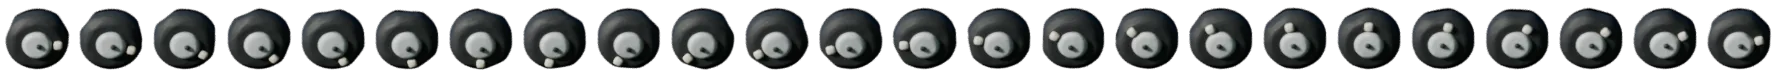
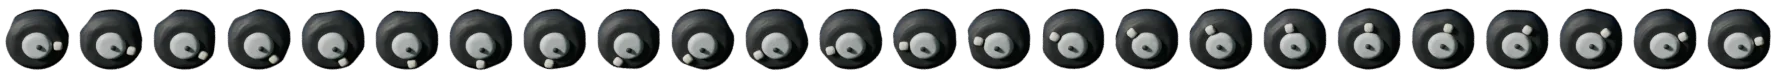
feat(science ch09): beats 0, 4 and 5 on the clay road; check that picture and labels agree
incar: the truck, the car and the friend are sprites the page moves over the road plate;
their screen speeds equal the live labels before and after the cut (make/check_ch09.py,
Chromium and Firefox). Lanes set apart so the car's roof clears the truck's wheels.

diff --git a/site/science/ch09/index.html b/site/science/ch09/index.html
@@ -22,7 +22,8 @@ const CHAPTER = { number: 9, label: 1, title: 'Motion', minutes: 18, language: '
 const V = 150;                                   // 30 mph on screen, in world px per second (same scale in every road beat)
 const MPH = v => Math.round(Math.abs(v) / V * 30);
 const speedStr = rel => { const n = MPH(rel); return n === 0 ? '0 mph' : rel > 0 ? `${n} mph →` : `← ${n} mph`; };
-const TRUCK_LAB = 358, CAR_LAB = CR.near + 96, HEAD = CR.side - 142;   // over the clay road: speed labels above the truck's roof and under the car; a pin's tip just over a person's head
+// Over the clay road: the truck's speed label above its roof, the car's on the asphalt ahead of it (from the car's x), a pin's tip just over a person's head.
+const TRUCK_LAB = 358, CAR_LAB = [290, CR.near + 6], CAR_ROOF = -89, HEAD = CR.side - 142;   // CAR_ROOF: the middle of the car's roof, from its anchor (a pin stands in it)
 const Q_CARD = { x: 96, y: 586, w: 1408, cls: 'band' };   // a band card under the scenes; it moves up by itself when taller
 const txt = (p, s, x, y, t0, { size = 32, fill = COL.chalk, anchor = 'middle', weight = 600 } = {}) => { const e = T(p, s, { x, y, size, fill, anchor, weight, o: 0 }); show(e, t0); return e; };
 // One line with coloured runs: [[text, colour?], …].
@@ -134,12 +135,12 @@ const BEATS = [
 ['intro', 'Motion', (m, D) => {
   const p = panel(0);
   const cam = camera(p, D, { x: 800, y: 285, z: .9 });
-  const road = phRoad(cam);
+  const road = clRoad(cam);
   const carX = t => -260 + 190 * t;
-  const car = phCar(road.vehicles, { y: ROAD.near });
+  const car = clCar(road.vehicles);
   cam.to({ x: t => carX(t) + 330 }, 2.4, 2);                 // lock on: from here the camera rides with the car
   clockRun(t => {
-    const x = carX(t); put(car, { x }); phRoll(car, x);
+    const x = carX(t); put(car, { x }); clRoll(car, x);
   }, D);
   const g = G(p, { o: 0, y: 24 });
   T(g, 'Unit 1 · Motion, Forces, and Work · Chapter 1', { x: 800, y: 130, size: 28, fill: COL.dim, anchor: 'middle' });
@@ -232,30 +233,30 @@ const BEATS = [
 ['incar', 'Riding beside the truck', (m, D) => {
   const p = panel(0);
   const cam = camera(p, D);
-  const road = phRoad(cam, { trees: [300, 800, 1900] });   // no tree behind the friend (1100) or the friend's label
+  const road = clRoad(cam);
   const FR = 1100, tc = m('car', .3), r0 = m('ride');
   const xw = t => -330 + V * Math.max(0, t - tc);            // world position of the truck and the car (side by side)
-  // Hard cut at "ride": the camera now rides in the car (locked on it, a little closer, with a light road shake).
+  // Hard cut at "ride": the camera now rides in the car (locked on it, a little closer).
   cam.cut({ x: t => xw(t) + 10, y: 600, z: 1.15 }, r0);
-  phPerson(road.side, { role: 'friend', x: FR, y: ROAD.side });
-  const truck = phTruck(road.vehicles, { y: ROAD.far });
-  const car = phCar(road.vehicles, { y: ROAD.near });
+  clImg(road.side, 'friend', { x: FR, y: CR.side });
+  const truck = clTruck(road.vehicles), car = clCar(road.vehicles);
+  const scrim = clScrim(p, 660, { o: 0 }); show(scrim, r0, 0);   // from the cut on, two labels stand on the near grass
   // Speed labels live in screen space and are kept inside the frame (cam.track); wrappers fade them in.
   const tag = (fill, t0) => { const g = G(p, { o: 0 }); show(g, t0); return phLabel(g, '', { fill }); };
   const fl = tag(PH.friend, .4), tl = tag(PH.truck, tc + 1.6), cl = tag(PH.car, tc + 1.6);
-  const sl = phLabel(p, 'road and trees: ← 30 mph', { x: 70, y: 862, size: 30, fill: COL.dim, anchor: 'start', o: 0 });
+  const sl = phLabel(p, 'road and trees: ← 30 mph', { x: 70, y: 862, size: 30, fill: COL.chalk, anchor: 'start', o: 0 });
   show(sl, m('back'));
-  const pinA = phPin(road.side, { x: FR, y: 304, o: 0 }), pinB = phPin(car, { x: 30, y: -112, s: 0, o: 0 });
+  const pinA = phPin(road.side, { x: FR, y: HEAD, o: 0 }), pinB = phPin(car, { x: -12, y: CAR_ROOF, s: 0, o: 0 });
   show(pinA, .3); hide(pinA, r0, 0); pop(pinB, r0 + .3);
   const tagA = fromTag(p, 'the roadside', .3);
   hide(tagA, r0, 0); fromTag(p, 'your car', r0, 0, 800);   // bottom: the friend slides through the top
   clockRun(t => {
     const x = xw(t), camV = t < r0 ? 0 : V, rel = t < tc ? 0 : V - camV;
     put(truck, { x }); put(car, { x: x + 10 });
-    phRoll(truck, x + 330); phRoll(car, x + 330);
-    phText(fl, `friend: ${speedStr(-camV)}`); cam.track(fl, FR, 236, t);
-    phText(tl, `truck: ${speedStr(rel)}`); cam.track(tl, x + 10, 350, t);
-    phText(cl, `your car: ${speedStr(rel)}`); cam.track(cl, x + 10, ROAD.bot + 56, t);
+    clRoll(truck, x + 330); clRoll(car, x + 330);            // the wheels turn with the road covered, whoever watches
+    phText(fl, `friend: ${speedStr(-camV)}`); cam.track(fl, FR, HEAD - 68, t);
+    phText(tl, `truck: ${speedStr(rel)}`); cam.track(tl, x + 10, TRUCK_LAB, t);
+    phText(cl, `your car: ${speedStr(rel)}`); cam.track(cl, x + CAR_LAB[0], CAR_LAB[1], t);
   }, D);
 }],
 ['rule', 'Motion is relative', (m, D) => {
@@ -264,16 +265,16 @@ const BEATS = [
   const view = (box, t0, title, ride) => {
     const cam = camera(p, D, { box, x: 1200, y: 560, z: .45 });
     if (ride) cam.cut({ x: t => splitX(t) + 10 }, 0);
-    const r = phRoad(cam, { hills: false });
-    phPerson(r.scenery, { role: 'friend', x: 480, y: ROAD.side });
-    if (!ride) phPin(r.scenery, { x: 480, y: 330, s: 1.1 });
-    const truck = phTruck(r.vehicles, { y: ROAD.far }), car = phCar(r.vehicles, { y: ROAD.near });
-    if (ride) phPin(car, { x: 30, y: -112, s: 1.4 });
-    const lab = phLabel(r.front, ride ? 'truck: 0 mph' : 'truck: 30 mph →', { y: 340, size: 56, fill: PH.truck });
+    const r = clRoad(cam);
+    clImg(r.side, 'friend', { x: 480, y: CR.side });
+    if (!ride) phPin(r.side, { x: 480, y: HEAD, s: 1.1 });
+    const truck = clTruck(r.vehicles), car = clCar(r.vehicles);
+    if (ride) phPin(car, { x: -12, y: CAR_ROOF, s: 1.4 });
+    const lab = phLabel(r.front, ride ? 'truck: 0 mph' : 'truck: 30 mph →', { y: TRUCK_LAB - 6, size: 56, fill: PH.truck });
     clockRun(t => {
       const x = splitX(t);
       put(truck, { x }); put(car, { x: x + 10 }); put(lab, { x: x + 10 });
-      phRoll(truck, x); phRoll(car, x);
+      clRoll(truck, x); clRoll(car, x);
     }, D);
     put(cam.el, { o: 0 }); show(cam.el, t0);
     show(phLabel(p, title, { x: box[0] + 24, y: box[1] + box[3] - 22, size: 28, fill: PH.ref, anchor: 'start', o: 0 }), t0);

diff --git a/site/science/lib/clay.js b/site/science/lib/clay.js
@@ -43,3 +43,11 @@ function clRoad(cam) {
   for (let k = -1; k <= 2; k++) mk('image', { href: clSrc('road'), x: k * CR.W, y: m.y, width: m.w, height: m.h }, back);
   return { scenery: back, side: G(cam.world), vehicles: G(cam.world), front: G(cam.world) };
 }
+// A scrim over the foot of the picture: labels there keep their contrast over the bright near ground.
+{
+  const g = mk('linearGradient', { id: 'clScrim', x1: 0, y1: 0, x2: 0, y2: 1 }, mk('defs', {}, scene.ownerSVGElement));
+  mk('stop', { offset: 0, 'stop-color': COL.board, 'stop-opacity': 0 }, g);
+  mk('stop', { offset: .45, 'stop-color': COL.board, 'stop-opacity': .7 }, g);
+  mk('stop', { offset: 1, 'stop-color': COL.board, 'stop-opacity': .86 }, g);
+}
+const clScrim = (p, y0 = 680, o = {}) => put(mk('rect', { x: 0, y: y0, width: SW, height: SH - y0, fill: 'url(#clScrim)' }, p), o);

diff --git a/site/science/img/clay/clay.js b/site/science/img/clay/clay.js
@@ -29,9 +29,9 @@ window.CLAY = {
   },
   "truck": {
    "w": 548,
-   "h": 242,
+   "h": 241,
    "x": -186,
-   "y": -188.44,
+   "y": -187.94,
    "wheel": "truck_wheel",
    "wheels": [
     [
@@ -53,14 +53,14 @@ window.CLAY = {
    "w": 74,
    "h": 78,
    "x": -37.0,
-   "y": -38.65,
+   "y": -39.15,
    "n": 24
   },
   "car": {
    "w": 376,
-   "h": 182,
+   "h": 181,
    "x": -140,
-   "y": -133.44,
+   "y": -132.94,
    "wheel": "car_wheel",
    "wheels": [
     [
@@ -76,9 +76,9 @@ window.CLAY = {
   },
   "car_wheel": {
    "w": 65,
-   "h": 70,
+   "h": 71,
    "x": -32.0,
-   "y": -35.62,
+   "y": -36.12,
    "n": 24
   },
   "you": {
@@ -103,8 +103,8 @@ window.CLAY = {
  "road": {
   "W": 2400.0,
   "Y0": 613.0,
-  "far": 539.44,
-  "near": 674.44,
+  "far": 541.94,
+  "near": 696.94,
   "side": 446.64
  }
 };

diff --git a/site/science/make/check_ch09.py b/site/science/make/check_ch09.py
@@ -1,0 +1,128 @@
+"""check_ch09.py: the clay picture and the live numbers of chapter 1 agree, at any moment however it is reached.
+
+    python3 .claude/skills/papermorph/scripts/serve.py 8831 site &
+    uv run --with playwright site/science/make/check_ch09.py [--url http://localhost:8831/science/ch09/] [--browser firefox]
+
+Measured on the page as drawn (getBoundingClientRect of the clay pictures, stage px), not from the page's own
+formulas:
+  incar     the truck, the car and the friend move across the screen at the speed their labels say (30 mph is
+            150 px a second at zoom 1), before and after the cut to the car's camera; the road plate with them
+  roadside  the truck at 30 mph past you
+  position  the ball's centre is over 2 m, then 7 m, and the angle shown is the one its rolled distance gives
+  wheels    the wheel frame shown is the one the distance driven gives
+Each moment is opened two ways: jumped to (as ?beat=N&t=S does) and stepped to at 60 steps a second (as playing
+does); both must give the same picture.
+"""
+import argparse, asyncio, math, re
+from playwright.async_api import async_playwright
+
+ap = argparse.ArgumentParser()
+ap.add_argument('--url', default='http://localhost:8831/science/ch09/')
+ap.add_argument('--browser', default='chromium', choices=['chromium', 'firefox'])
+a = ap.parse_args()
+
+# The page's state at beat i, time t: where each clay picture is on the stage, which frame each strip shows, the labels.
+STATE = r"""
+([i, t, stepped]) => {
+  seek(i, false);
+  if (stepped) for (let u = 0; u < t; u += 1 / 60) evalTo(u);
+  P.t = t; evalTo(t);
+  const st = document.getElementById('stage').getBoundingClientRect(), k = 1600 / st.width;
+  const name = e => e.getAttribute('href').replace(/.*\/|\.webp$/g, '');
+  const box = e => { const r = e.getBoundingClientRect(); return [(r.left - st.left) * k, (r.top - st.top) * k, r.width * k, r.height * k]; };
+  // a strip's window: its corner through the transform of the group it sits in (Chromium's rectangle of the window takes in the whole strip)
+  const at = v => { const m = v.parentNode.getScreenCTM(), x = +v.getAttribute('x'), y = +v.getAttribute('y');
+    return [(m.a * x + m.c * y + m.e - st.left) * k, (m.b * x + m.d * y + m.f - st.top) * k, +v.getAttribute('width') * m.a * k, +v.getAttribute('height') * m.d * k]; };
+  const shown = e => { for (let n = e; n && n !== scene; n = n.parentNode) if (n._st && n._st.o < .5) return false; return true; };
+  const pics = {}, frames = {};
+  for (const e of scene.querySelectorAll('image')) {
+    if (!shown(e)) continue;
+    const n = name(e), strip = e.parentNode.tagName === 'svg';
+    (pics[n] ??= []).push(strip ? at(e.parentNode) : box(e));
+    if (strip) (frames[n] ??= []).push(parseFloat(e.parentNode.getAttribute('viewBox')) / CLAY.img[n].w);
+  }
+  return { pics, frames, labels: [...scene.querySelectorAll('text')].filter(shown).map(e => e.textContent) };
+}
+"""
+V, DT = 150, 0.5        # px a second for 30 mph at zoom 1; the time between the two looks
+
+
+def mph(label):
+    m = re.search(r'(←)?\s*(\d+) mph', label)
+    return (-1 if m.group(1) else 1) * int(m.group(2))
+
+
+async def main():
+    async with async_playwright() as p:
+        b = await getattr(p, a.browser).launch()
+        pg = await b.new_page(viewport={'width': 1600, 'height': 960})
+        errs = []
+        pg.on('pageerror', lambda e: errs.append(str(e)))
+        await pg.goto(a.url); await pg.wait_for_timeout(600)
+        idx = lambda bid: pg.evaluate(f"BEATS.findIndex(b => b.id === '{bid}')")
+        n = 0
+
+        async def state(i, t):
+            s, s2 = await pg.evaluate(STATE, [i, t, False]), await pg.evaluate(STATE, [i, t, True])
+            assert s == s2, f'beat {i} at {t} s: jumped to and stepped to differ'
+            return s
+
+        async def speed(i, t, pic, zoom, wrap=0):   # screen speed of a picture's left edge, as mph
+            s0, s1 = await state(i, t), await state(i, t + DT)
+            d = (s1['pics'][pic][0][0] - s0['pics'][pic][0][0]) / zoom
+            if wrap: d = (d + wrap / 2) % wrap - wrap / 2      # a plate that repeats may have stepped back one period
+            return d / DT / V * 30, s0
+
+        # incar: before the cut the camera stands by the road (zoom 1); after it, it rides in the car (zoom 1.15)
+        i = await idx('incar')
+        r0 = await pg.evaluate("TIMINGS.incar.marks.ride")
+        for t, zoom in [(4.0, 1), (6.5, 1), (r0 + .4, 1.15), (12.0, 1.15), (16.0, 1.15), (20.0, 1.15)]:
+            for pic, lab in (('truck', 'truck'), ('car', 'your car'), ('friend', 'friend')):
+                v, s = await speed(i, t, pic, zoom)
+                said = [x for x in s['labels'] if x.startswith(lab + ':')]
+                x = s['pics'][pic][0][0] - zoom * await pg.evaluate(f'CLAY.img.{pic}.x')   # its anchor (the feet), on the stage
+                if not said and not 0 < x < 1600: continue                # it has left the frame, and its label with it
+                assert said, f'incar {t} s: no label for the {pic} among {s["labels"]}'
+                said = mph(said[0])
+                assert abs(v - said) < 0.05, f'incar {t} s: the {pic} moves at {v:.2f} mph on screen, its label says {said}'
+                n += 1
+            v, s = await speed(i, t, 'road', zoom, wrap=await pg.evaluate("CLAY.road.W"))
+            want = 0 if zoom == 1 else -30
+            assert abs(v - want) < 0.05, f'incar {t} s: the road moves at {v:.2f} mph on screen, expected {want}'
+            if zoom > 1: assert 'road and trees: ← 30 mph' in s['labels'] or t < await pg.evaluate("TIMINGS.incar.marks.back")
+            n += 1
+        # wheels: the frame shown is the nearest of the strip's angles to distance / radius (each wheel leads by 7 frames more)
+        for t in (5.0, 9.3, 14.7):
+            s = await state(i, t)
+            x = await pg.evaluate(f"-330 + 150 * Math.max(0, {t} - (TIMINGS.incar.marks.car + .3)) + 330")
+            for pic in ('truck', 'car'):
+                r, N = await pg.evaluate(f"[CLAY.img.{pic}.r, CLAY.img.{pic}_wheel.n]")
+                for w, f in enumerate(s['frames'][pic + '_wheel']):
+                    assert round(f) == (round(x / r / (2 * math.pi) * N) + 7 * w) % N, f'incar {t} s: {pic} wheel {w} shows frame {f}'
+                    n += 1
+        # roadside: the truck passes you at 30 mph
+        i = await idx('roadside')
+        for t in (7.0, 9.0, 11.0):
+            v, s = await speed(i, t, 'truck', 1)
+            assert abs(v - 30) < 0.05 and 'truck: 30 mph →' in s['labels'], f'roadside {t} s: truck at {v:.2f} mph'
+            n += 1
+        # position: the ball over 2 m, then over 7 m (0 m at x = 200, 120 px a metre), turned by the distance rolled
+        i = await idx('position')
+        roll = await pg.evaluate("TIMINGS.position.marks.roll")
+        cx, r, N = await pg.evaluate("[-CLAY.img.ball.x, CLAY.img.ball.r, CLAY.img.ball.n]")
+        for t, metres in [(3.0, 2), (roll + 2.4, 7), (17.0, 7)]:
+            s = await state(i, t)
+            x = s['pics']['ball'][0][0] + cx
+            assert abs(x - (200 + 120 * metres)) < 0.5, f'position {t} s: ball centre at x = {x:.1f}, not over {metres} m'
+            assert round(s['frames']['ball'][0]) == round(120 * (metres - 2) / r / (2 * math.pi) * N) % N
+            n += 2
+        for t in (roll + .6, roll + 1.2, roll + 1.9):       # on the way: the angle follows the distance
+            s = await state(i, t)
+            d = s['pics']['ball'][0][0] + cx - 440
+            assert round(s['frames']['ball'][0]) == round(d / r / (2 * math.pi) * N) % N, f'position {t} s: ball angle'
+            n += 1
+        assert not errs, errs
+        print(f'check_ch09 ({a.browser}): {n} checks passed: screen speeds equal the labels in incar and roadside, wheel and ball angles follow the distance, jumped-to equals stepped-to')
+        await b.close()
+
+asyncio.run(main())

diff --git a/site/science/make/ch09.py b/site/science/make/ch09.py
@@ -20,6 +20,7 @@ from claykit import clay, box, ball, roll, slab, part, empty, copy, group, shot,
 a = K.arguments(lambda ap: ap.add_argument('--set', required=True, choices=['park', 'road']))
 ONLY = set(filter(None, a.only.split(',')))
 want = lambda n: not ONLY or n in ONLY
+if a.fstop is None: a.fstop = {'park': 0.2, 'road': 0.26}[a.set]   # the road holds two lanes and a pavement in its sharp band
 sc = K.setup(a)
 COS, SIN = math.cos(K.E), math.sin(K.E)
 SUN = Vector(a.sun_dir)
@@ -173,28 +174,28 @@ if a.set == 'park':
 # ================================================================ road (beats 0, 3, 4, 5)
 if a.set == 'road':
     W = 24.0                          # the plate's period: 2400 page px
-    Y0 = 613.0                        # page y of the road's middle (depth 0); the road runs from 478 to 748 as in the pixel beats
-    FOCUS = 1.0                       # the depth in focus: between the truck's lane and the pavement
-    LANE = 1.35                       # lane centres at depth +LANE (far: the truck) and -LANE (near: the car)
+    Y0 = 613.0                        # page y of the ground at depth 0; the far kerb is at 478 as in the pixel beats, the near one at 768
+    FOCUS = 0.0                       # the depth in focus: between the lanes
+    FAR, NEAR = 1.3, -1.8             # lane centres: the truck's and the car's; apart enough that the car's roof clears the truck's wheels
     SIDE = 3.05                       # where people stand on the far pavement
     P3 = (-W, 0, W)
     # ---- ground: every piece is one period long and repeats, marks included
     ground = []
     for dx in P3:
         ground += [slab('grass', dx, dx + W, -9.5, 5.4, 0.0, clay('grass', C['grass'], rough=0.6, feat=1.5, stipple=0.5, prints=0.3, specks=0.4, period=W), thick=0.3, d=0.14, wobble=0, lump=0.02, period=W),
-                   slab('road', dx, dx + W, -2.7, 2.7, 0.07, clay('road', C['road'], rough=0.5, feat=1.6, period=W, specks=0.6), thick=0.16, d=0.08, wobble=0.035, lump=0.008, period=W, seed=1),
+                   slab('road', dx, dx + W, -3.1, 2.7, 0.07, clay('road', C['road'], rough=0.5, feat=1.6, period=W, specks=0.6), thick=0.16, d=0.08, wobble=0.035, lump=0.008, period=W, seed=1),
                    slab('walk', dx, dx + W, 2.62, 4.1, 0.16, clay('walk', C['walk'], rough=0.58, feat=1.4, period=W), thick=0.2, d=0.08, wobble=0.03, lump=0.008, period=W, seed=2)]
-        for k, y in enumerate((-2.42, 2.42)):
+        for k, y in enumerate((-2.84, 2.42)):
             ground.append(slab(f'edge{k}', dx, dx + W, y - 0.045, y + 0.045, 0.1, clay('line', C['line'], period=W, specks=0.3), thick=0.05, d=0.04, wobble=0.014, lump=0.004, period=W, seed=5 + k))
     rnd = random.Random(3)
     for i in range(15):               # the centre dashes: fifteen little cream strips, none quite straight
         x = 1.6 * i + rnd.uniform(-.03, .03); t = rnd.uniform(-.025, .025)
         d = slab(f'dash{i}', -0.36, 0.36, -0.045, 0.045, 0.1, clay('line', C['line'], specks=0.3), thick=0.05, d=0.04, wobble=0.008, lump=0.004, seed=20 + i)
-        d.location = (x + 0.36, rnd.uniform(-.015, .015), 0); d.rotation_euler = (0, 0, t)
+        d.location = (x + 0.36, -0.2 + rnd.uniform(-.015, .015), 0); d.rotation_euler = (0, 0, t)
         ground += [d] + [copy(d, (d.location.x + dx, d.location.y, 0)) for dx in P3 if dx]
     group('ground', *ground)
     # ---- scenery on the far side: trees at 300 and 1900, a lamp at 1500 (no tree behind a person at 760 or 1100)
-    scenery = hills([1.5, 4.8, 8.4, 11.6, 15.0, 18.3, 21.8], 5.3, 5, P3) + tufts(0, W, -6.8, -3.1, 30, 9, P3)
+    scenery = hills([1.5, 4.8, 8.4, 11.6, 15.0, 18.3, 21.8], 5.3, 5, P3) + tufts(0, W, -7.2, -3.6, 30, 9, P3)
     for i, (x, hh) in enumerate([(3.0, 1.0), (19.0, 1.08)]):
         t = tree(f'tree{i}', x, 3.75, 10 + i, hh)
         scenery += t + [copy(o, (o.location.x + dx, o.location.y, o.location.z)) for o in t for dx in P3 if dx]
@@ -205,7 +206,7 @@ if a.set == 'road':
     group('scenery', *scenery)
 
     # ---- the truck (far lane), its centre at x = 0
-    ty = LANE
+    ty = FAR
     blue, cargo, glass = clay('truck', C['truck'], rough=0.48), clay('cargo', C['cargo'], rough=0.5), clay('glass', C['glass'], rough=0.3, specks=0.2)
     tb = [box('t_chassis', (3.4, 1.46, 0.3), clay('truckd', '#3566b4'), (0, ty, 0.29), r=0.1, lump=0.012, dents=2),
           box('t_cargo', (2.2, 1.5, 1.2), cargo, (-0.6, ty, 1.0), r=0.14, d=0.05, lump=0.03, dents=12, seed=2),
@@ -221,7 +222,7 @@ if a.set == 'road':
         ax, objs = wheel(f'tw{i}', TW_R, 0.26, (x, ty - 0.74, TW_R), seed=i); taxles.append(ax); twheels += objs
         group(f'tw{i}', *objs)
     # ---- your car (near lane)
-    cy = -LANE
+    cy = NEAR
     green = clay('car', C['car'], rough=0.46)
     cb = [box('c_body', (2.5, 1.26, 0.5), green, (0, cy, 0.42), r=0.2, d=0.045, lump=0.02, dents=7, seed=4),
           box('c_cabin', (1.3, 1.12, 0.52), clay('carl', '#6fd39a'), (-0.12, cy, 0.84), r=0.24, d=0.04, lump=0.02, dents=4, seed=5),
@@ -240,7 +241,7 @@ if a.set == 'road':
         root, objs = person(role, 0, SIDE, seed=seed); group(role, *objs); people[role] = (root, objs)
 
     lane_y = lambda y, z=0.07: K.px(0, y, z, Y0)[1]
-    meta = {'U': K.U, 'elev': a.elev, 'road': {'W': W * K.U, 'Y0': Y0, 'far': round(lane_y(LANE), 2), 'near': round(lane_y(-LANE), 2), 'side': round(lane_y(SIDE, 0.16), 2)}}
+    meta = {'U': K.U, 'elev': a.elev, 'road': {'W': W * K.U, 'Y0': Y0, 'far': round(lane_y(FAR), 2), 'near': round(lane_y(NEAR), 2), 'side': round(lane_y(SIDE, 0.16), 2)}}
     if want('road'):   # two px wider than the period: the copies overlap, so no hairline shows between them
         shot('road', (0, 240, W * K.U + 2, 780), Y0, FOCUS, show=['ground', 'scenery'], extra={'W': W * K.U})
     N = 24

diff --git a/site/science/make/claykit.py b/site/science/make/claykit.py
@@ -40,7 +40,7 @@ def arguments(extra=None):
     ap.add_argument('--samples', type=int, default=64)
     ap.add_argument('--scale', type=int, default=100, help='percent of page size (200 for high-density screens)')
     ap.add_argument('--elev', type=float, default=30.0, help='camera elevation in degrees; the page reads it from clay.js')
-    ap.add_argument('--fstop', type=float, default=0.2, help='lower: near ground and far hills softer')
+    ap.add_argument('--fstop', type=float, default=None, help='lower: near ground and far hills softer (default: the set\'s own, about 0.2)')
     ap.add_argument('--sun', type=float, default=5.0)
     ap.add_argument('--sun-dir', dest='sun_dir', type=lambda v: tuple(map(float, v.split(','))), default=(1.0, 0.45, -0.72),
                     help='the way sunlight travels: x right, y into the set, z up')
